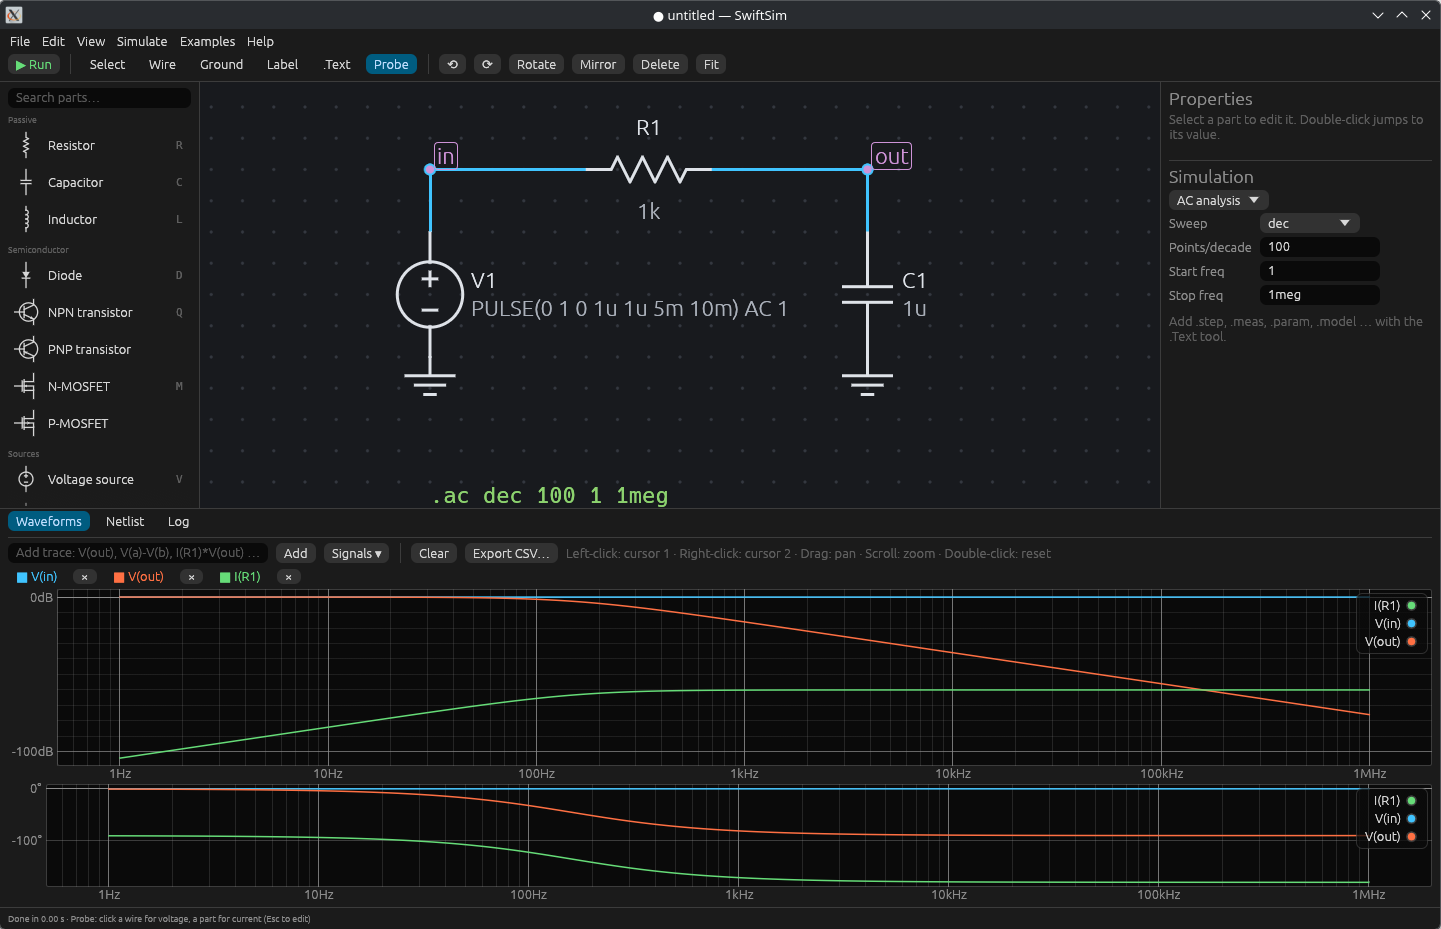
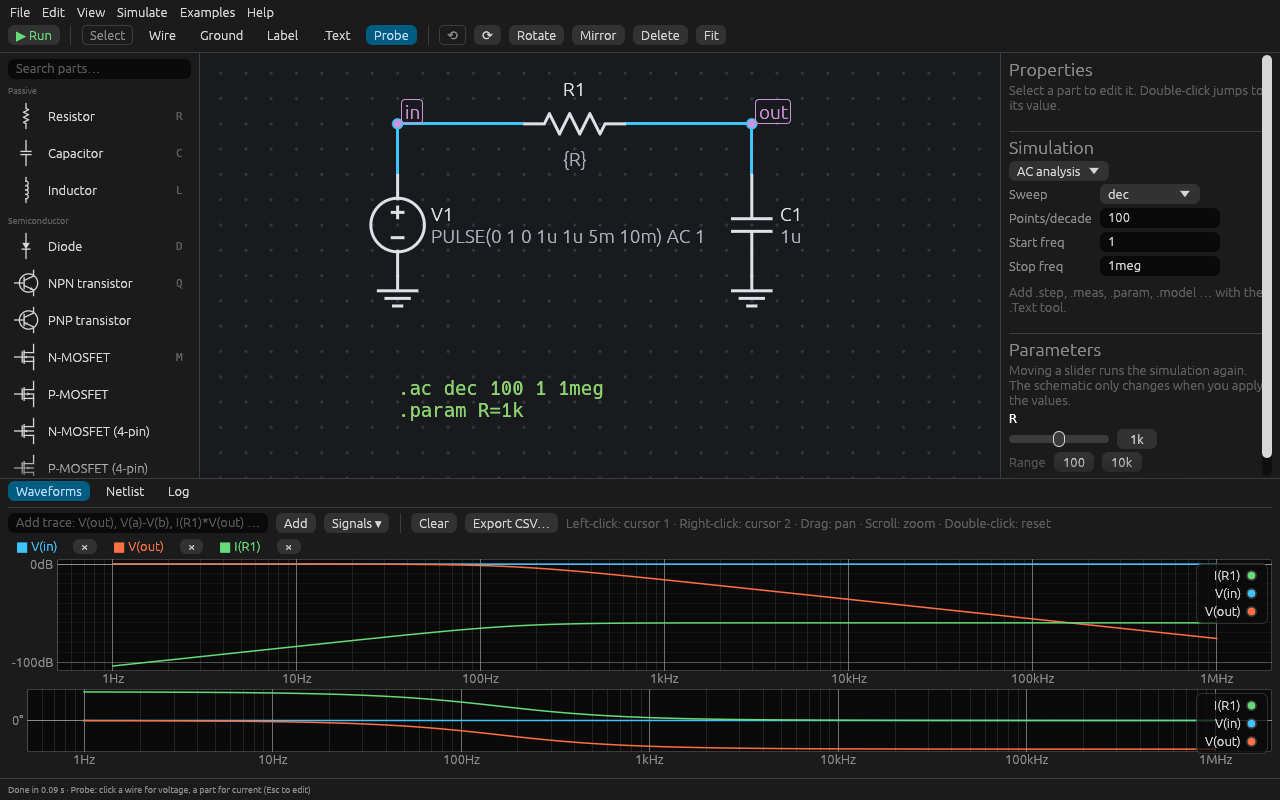
docs: current screenshots, captured in a private headless session

diff --git a/AGENTS.md b/AGENTS.md
@@ -120,8 +120,18 @@ Rust 1.89+ (edition 2024; `File::try_lock`). The release profile uses thin LTO.
 The maintainer may be running SwiftSim on the same machine. Never `pkill swiftsim` by name;
 start your instance with `& PID=$!` and kill that PID. Point test runs at a scratch config
 (`XDG_CONFIG_HOME=/some/tmp/dir`) so you don't write the user's recent files, settings or
-recovery copies in `~/.config/swiftsim`. On KDE Wayland, run the app under XWayland
-(`env -u WAYLAND_DISPLAY`) to drive it with `xdotool` and capture with `spectacle -b -n -a -o`.
+recovery copies in `~/.config/swiftsim`.
+
+Never open windows, send input or take screenshots on the maintainer's desktop. Run the GUI in a
+private headless KWin instead: `dbus-run-session -- kwin_wayland --virtual --xwayland --socket wl`
+with its own `XDG_RUNTIME_DIR`, `HOME` and `XDG_CONFIG_HOME`, and give the app only that session's
+`WAYLAND_DISPLAY`, `DISPLAY` and `DBUS_SESSION_BUS_ADDRESS` (check they are not `wayland-0/1`,
+`:0/:1` or `/run/user/<uid>/bus`). Open and run circuits through the MCP tools (`open_in_gui`,
+`gui_run`); for pointer input start the window on the nested Xwayland (no `WAYLAND_DISPLAY`) and use
+`xdotool` with the nested `DISPLAY` (`XwaylandEisNoPrompt=true` under `[Xwayland]` in the nested
+`kwinrc` skips KWin's permission prompt). Capture with `spectacle -b -n -f -o` run in the nested
+session (`KWIN_SCREENSHOT_NO_PERMISSION_CHECKS=1` in KWin's environment).
+`scripts/screenshots.sh` does all of this and regenerates `docs/transient.png` and `docs/ac.png`.
 
 ## Git and privacy
 
